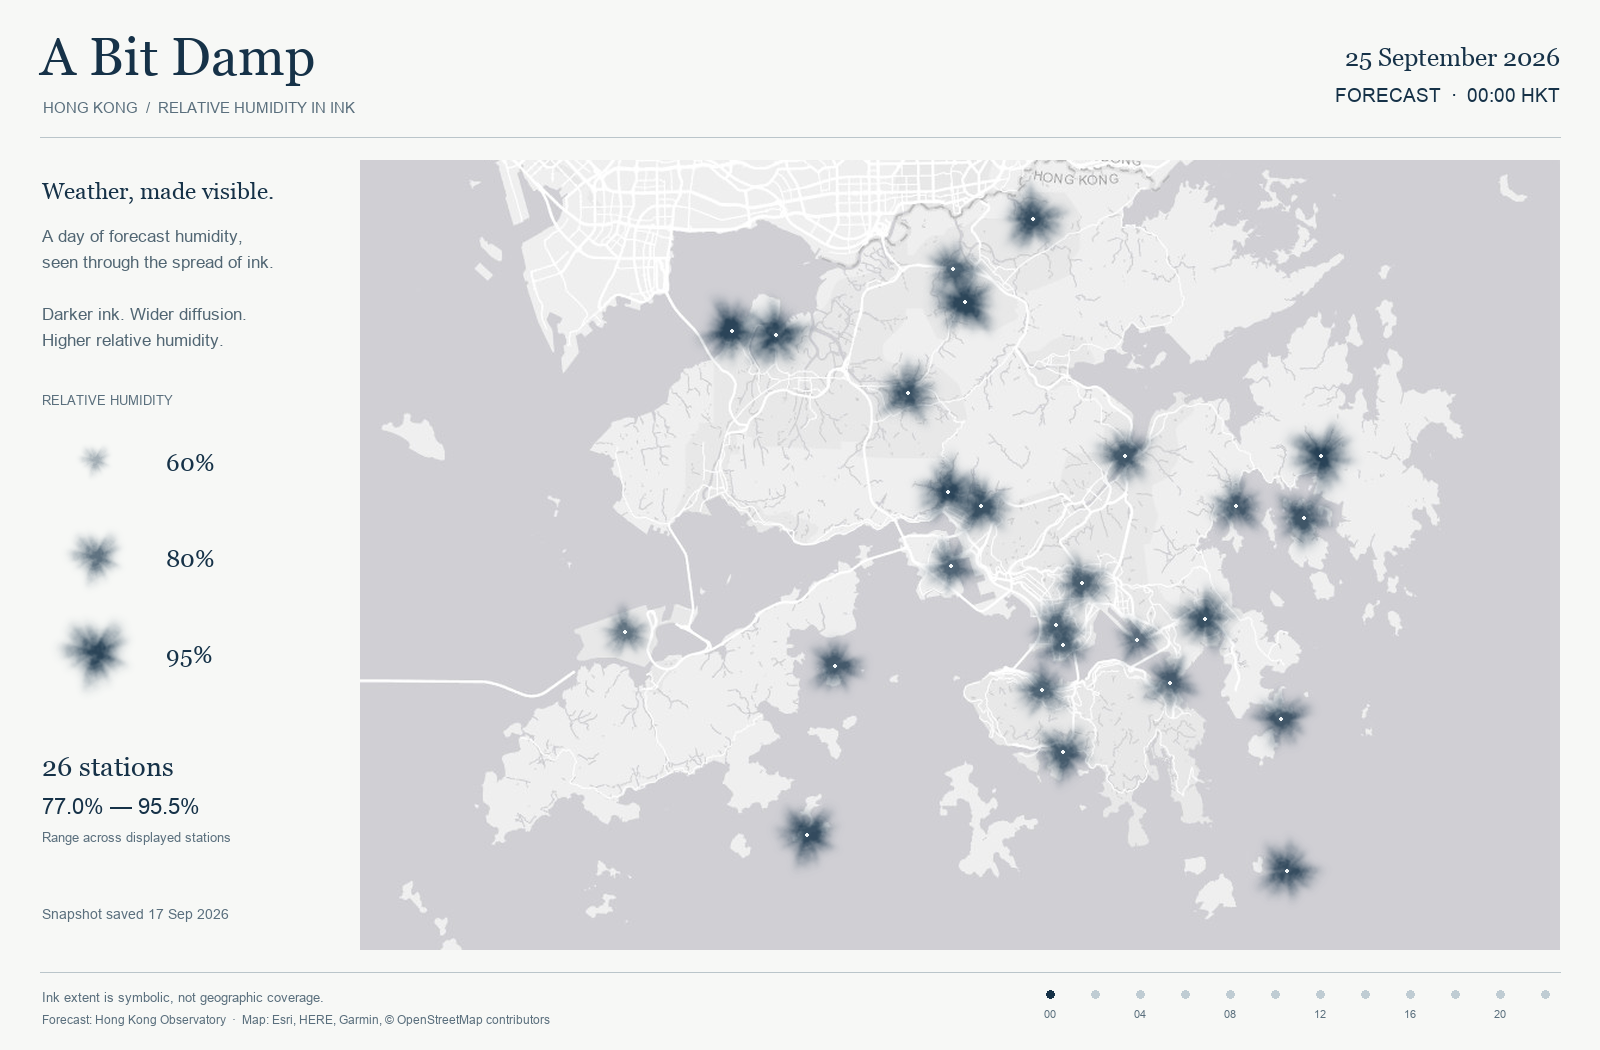
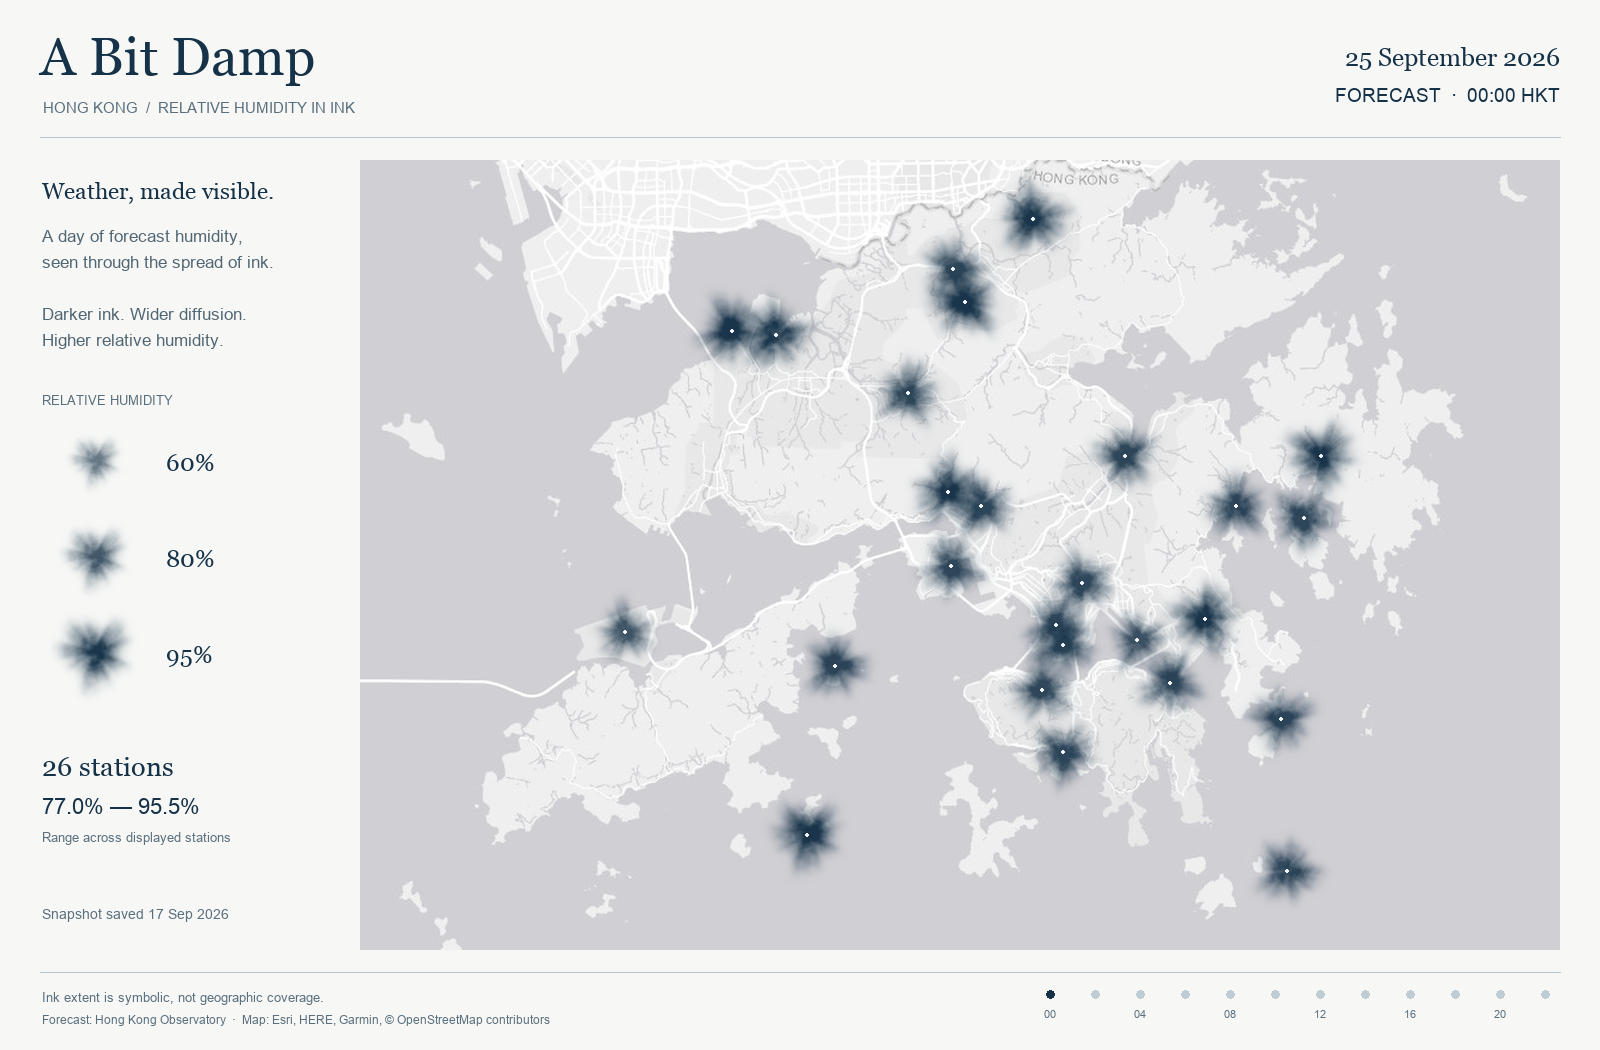
Refactor humidity calculation for improved accuracy and update output images

diff --git a/humidity.py b/humidity.py
@@ -153,7 +153,7 @@ def humidity_to_style(humidity):
     The 50–100% display range emphasizes this snapshot's range. This artistic
     encoding does not represent geographic spread or proportional area.
     """
-    t = max(0.0, min(1.0, (humidity - 50) / 50))
+    t = max(0.0, min(1.0, (math.ceil(humidity / 10) - 1) / 9))
     return {"diameter": round(30 + 78*t), "opacity": 0.22 + 0.76*t,
             "blur": 0.5 + 1.4*t}
 
